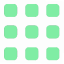
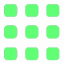
`add`

diff --git a/pkg/com/jackmeng/halcyon/gui/childs/dgui_HalcyonBottom.java b/pkg/com/jackmeng/halcyon/gui/childs/dgui_HalcyonBottom.java
@@ -19,7 +19,6 @@ import com.jackmeng.util.use_Struct.*;
 
 import javax.swing.*;
 import javax.swing.border.TitledBorder;
-import javax.swing.event.ChangeEvent;
 import javax.swing.tree.DefaultMutableTreeNode;
 import javax.swing.tree.DefaultTreeCellRenderer;
 import javax.swing.tree.TreeSelectionModel;
@@ -150,7 +149,6 @@ public class dgui_HalcyonBottom
       setHorizontalScrollBarPolicy(ScrollPaneConstants.HORIZONTAL_SCROLLBAR_NEVER);
       setVerticalScrollBarPolicy(ScrollPaneConstants.VERTICAL_SCROLLBAR_NEVER);
       setPreferredSize(new Dimension(const_Manager.DGUI_APPS_FILELIST_WIDTH, const_Manager.DGUI_APPS_FILELIST_HEIGHT));
-      setWheelScrollingEnabled(true);
       /*----------------------------------------------------------------- /
       / Dont add setMinimumSize(); it messes up app list resizing ability /
       /------------------------------------------------------------------*/
@@ -251,6 +249,7 @@ public class dgui_HalcyonBottom
       renderer.setLeafIcon(use_Image.resize_fast_1(const_Manager.DGUI_APPS_FILELIST_LEAF_ICON_W_H,
           const_Manager.DGUI_APPS_FILELIST_LEAF_ICON_W_H,
           use_ResourceFetcher.fetcher.getFromAsImageIcon(const_ResourceManager.DGUI_FILELIST_LEAF)));
+
       tree.setCellRenderer(renderer);
       tree.addMouseListener(new MouseAdapter() {
 
@@ -303,9 +302,9 @@ public class dgui_HalcyonBottom
 
       JScrollPane jsp = new JScrollPane();
       jsp.setAutoscrolls(true);
-      jsp.setHorizontalScrollBarPolicy(ScrollPaneConstants.HORIZONTAL_SCROLLBAR_ALWAYS);
-      jsp.setVerticalScrollBarPolicy(ScrollPaneConstants.VERTICAL_SCROLLBAR_ALWAYS);
-      jsp.setBorder(null);
+      jsp.setHorizontalScrollBarPolicy(ScrollPaneConstants.HORIZONTAL_SCROLLBAR_AS_NEEDED);
+      jsp.setVerticalScrollBarPolicy(ScrollPaneConstants.VERTICAL_SCROLLBAR_AS_NEEDED);
+      jsp.setBorder(BorderFactory.createEmptyBorder());
       jsp.setName(list.getParent());
       jsp.getViewport().add(tree);
 

diff --git a/pkg/com/jackmeng/halcyon/gui/const_ColorManager.java b/pkg/com/jackmeng/halcyon/gui/const_ColorManager.java
@@ -14,7 +14,8 @@ public final class const_ColorManager
   public static Color DEFAULT_BG = use_Color.hexToRGB("#282C34");
   public static Color DEFAULT_DARK_BG_2 = use_Color.hexToRGB("#323842");
   public static Color DEFAULT_GRAY_FG = use_Color.hexToRGB("#9c9c9c");
-  public static Color DEFAULT_GREEN_FG = use_Color.hexToRGB("#89EDA4");
+  public static Color OLD_DEFAULT_GREEN_FG = use_Color.hexToRGB("#89EDA4");
+  public static Color DEFAULT_GREEN_FG = use_Color.hexToRGB("#61ff76");
   public static Color DEFAULT_YELLOW_FG = use_Color.hexToRGB("#edd289");
   public static Color DEFAULT_RED_FG = use_Color.hexToRGB("#fa4848");
   public static Color DEFAULT_BLUE_FG = use_Color.hexToRGB("#48b3fa");

diff --git a/pkg/com/jackmeng/Halcyon.java b/pkg/com/jackmeng/Halcyon.java
@@ -102,8 +102,6 @@ public final class Halcyon
          use_Program.gc();
          Thread yan_wang = new Thread(() -> {
             use_HalcyonFolder.FOLDER.master_save();
-            Runtime.getRuntime().runFinalization();
-
             pstream.log
                   .log(new use_AnsiStrConstr(new use_AnsiColors[] { use_AnsiColors.RED_BG, use_AnsiColors.WHITE_TXT },
                         new Object[] {

diff --git a/pkg/com/jackmeng/halcyon/use_HalcyonFolder.java b/pkg/com/jackmeng/halcyon/use_HalcyonFolder.java
@@ -204,7 +204,10 @@ public final class use_HalcyonFolder
     pUsr.setProperty("playlists", sb.toString());
     sb.setLength(0);
     for (use_TailwindTrack e : const_Global.LIKE_LIST_POOL)
+    {
+      pstream.log.warn("Saving playlist (APPEND): " + e.id());
       sb.append(e.id() + new String(DELIMITER));
+    }
     pUsr.put("liked", sb.toString());
     try
     {
